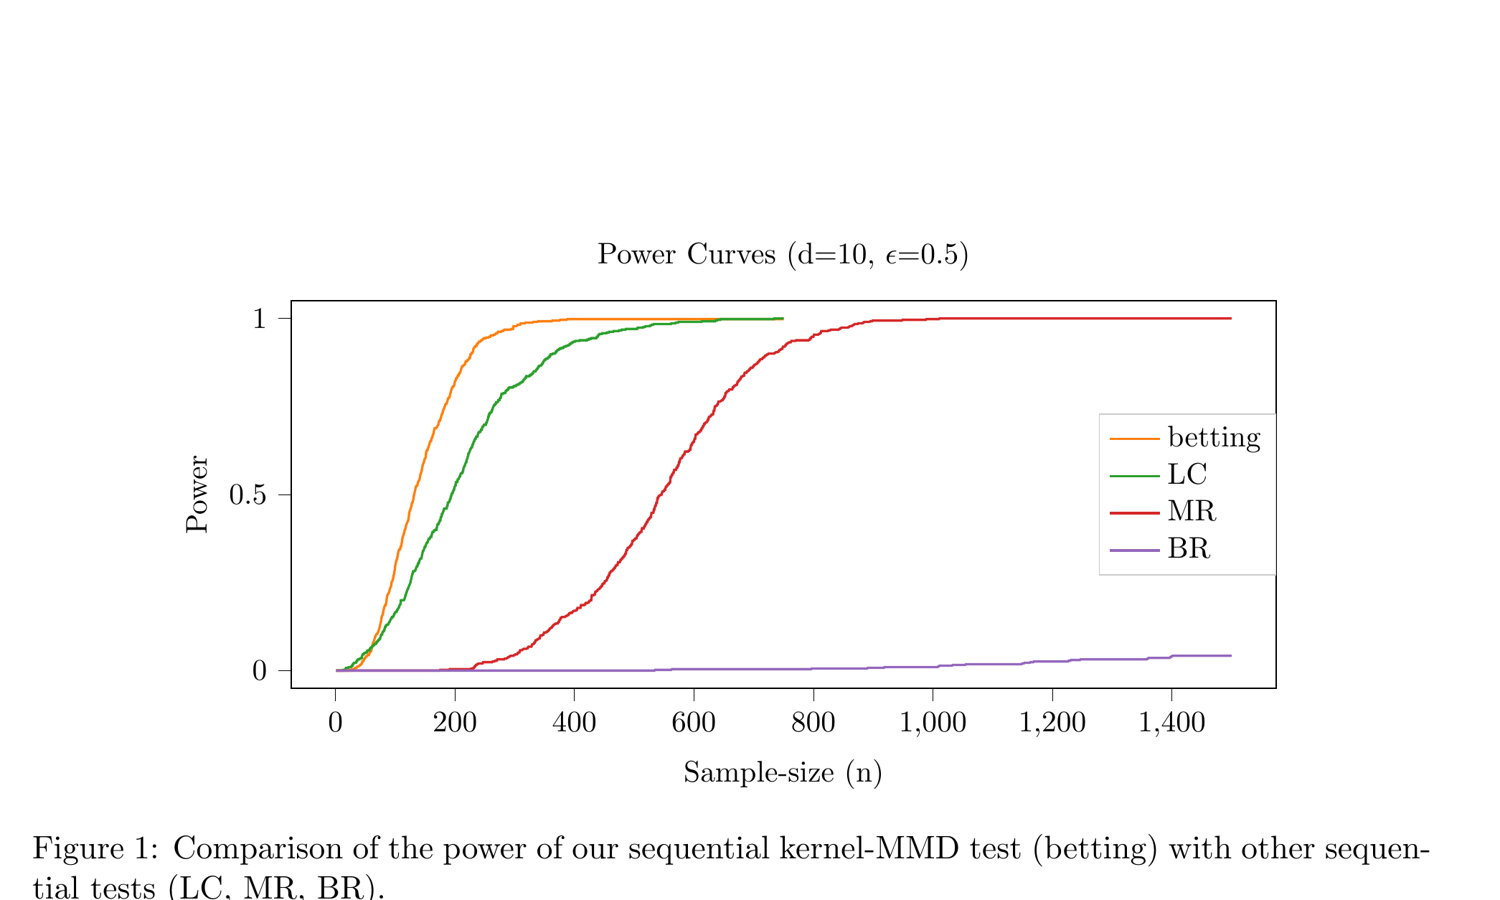
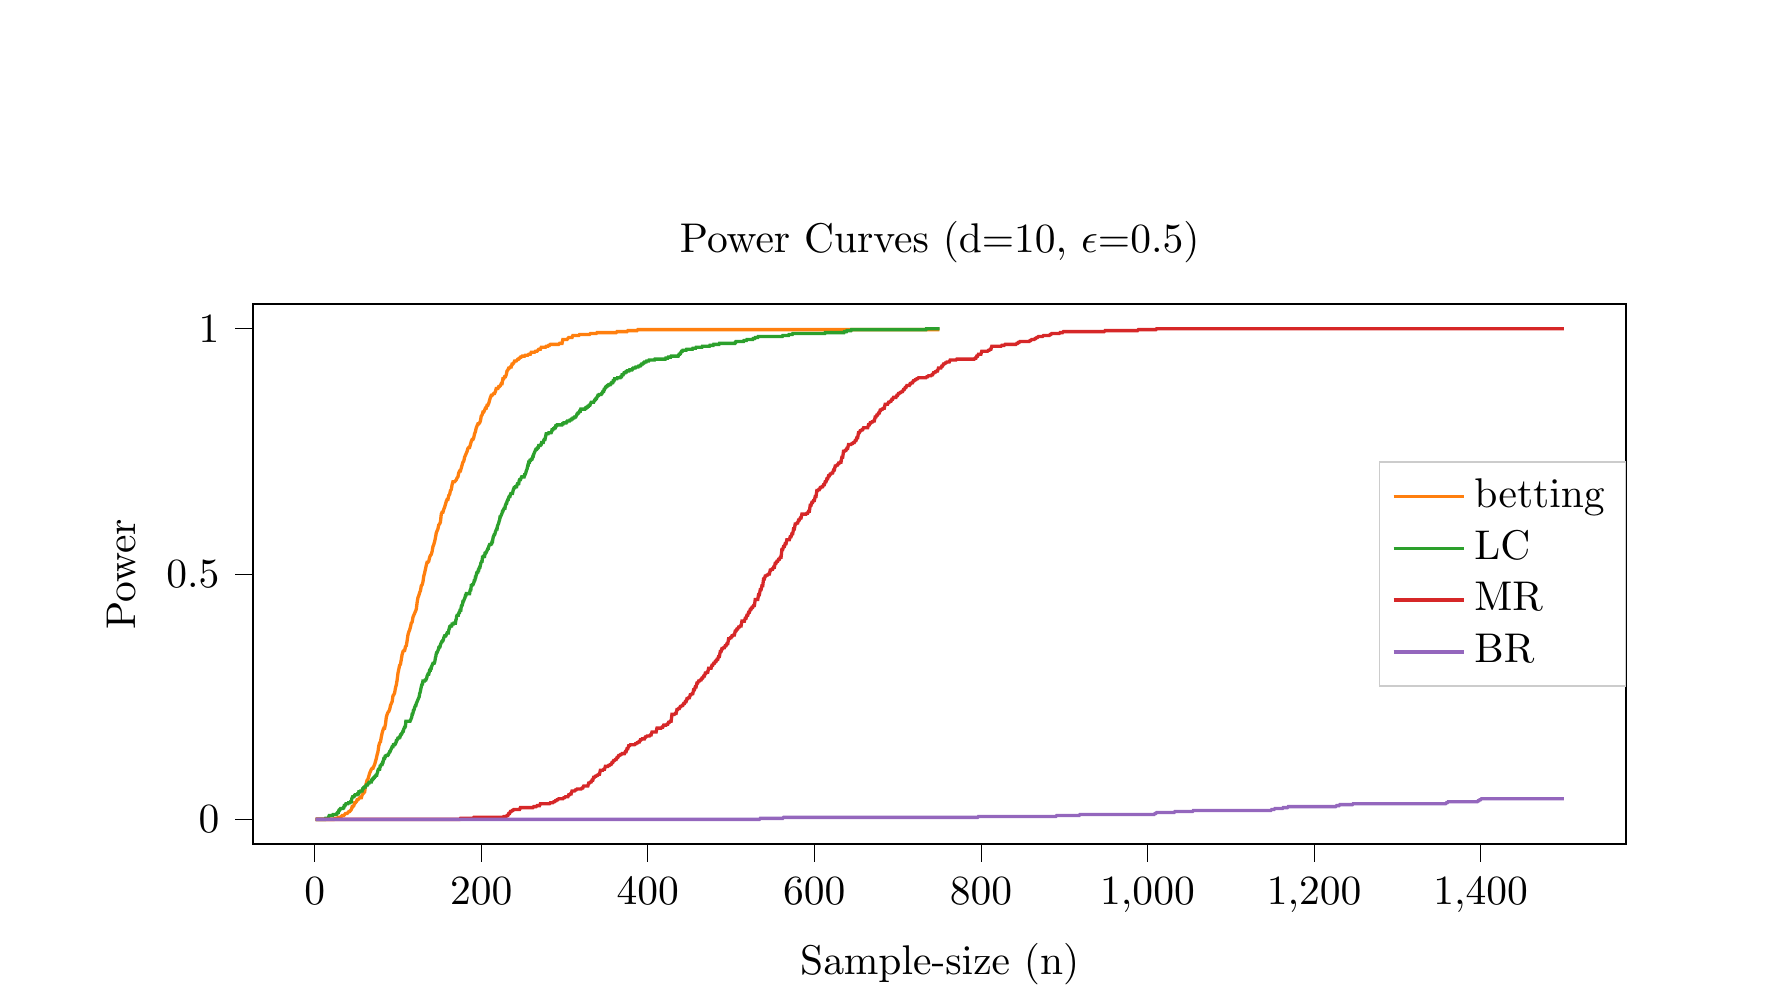
Re-crop betting-kernels and fdgm figures cleanly
Both figures were re-extracted at 300 DPI from the source PDFs and
tightly cropped to match the user's pasted reference images:

- betting-kernels.png: just the Power Curves chart (title, axes, legend,
  no figure-caption text, no Type-I plot below)
- fdgm.png: just the three structural-probe trajectory panels
  (no page header, no line numbers, no caption text below)

Bumped both figures' cache-buster to ?v=5 so browsers refetch.

diff --git a/projects/betting-kernels.html b/projects/betting-kernels.html
@@ -75,10 +75,10 @@
         </ul>
 
         <figure class="proj-figure">
-          <img src="../assets/figures/betting-kernels.png?v=4" alt="Key figure for betting-kernels"
+          <img src="../assets/figures/betting-kernels.png?v=5" alt="Key figure for betting-kernels"
             onerror="this.style.display='none'; this.nextElementSibling.style.display='flex';">
           <div class="fig-placeholder" style="display:none;">
-            Drop the key figure at <code>assets/figures/betting-kernels.png?v=4</code>
+            Drop the key figure at <code>assets/figures/betting-kernels.png?v=5</code>
           </div>
           <figcaption>Power curves under H₁: the sequential kernel-MMD betting test reaches power 1 fastest (n ≈ 300), beating likelihood-comparison (LC, n ≈ 600) and martingale-ratio (MR, n ≈ 1000) baselines while the Bonferroni-Robbins (BR) test fails to reject.</figcaption>
         </figure>

diff --git a/projects/fdgm.html b/projects/fdgm.html
@@ -82,10 +82,10 @@
           </li>
         </ul>
         <figure class="proj-figure">
-          <img src="../assets/figures/fdgm.png?v=4" alt="Key figure for FDGM paper"
+          <img src="../assets/figures/fdgm.png?v=5" alt="Key figure for FDGM paper"
             onerror="this.style.display='none'; this.nextElementSibling.style.display='flex';">
           <div class="fig-placeholder" style="display:none;">
-            Drop the key figure at <code>assets/figures/fdgm.png?v=4</code>
+            Drop the key figure at <code>assets/figures/fdgm.png?v=5</code>
           </div>
           <figcaption>Per-seed argmax-accuracy trajectories for the three structural probes (end-of-sentence, modal continuation, adjective order) over pretraining. All three exhibit a peak-then-collapse shape across five seeds, though peak timing varies (especially for <em>adjective order</em>).</figcaption>
         </figure>
